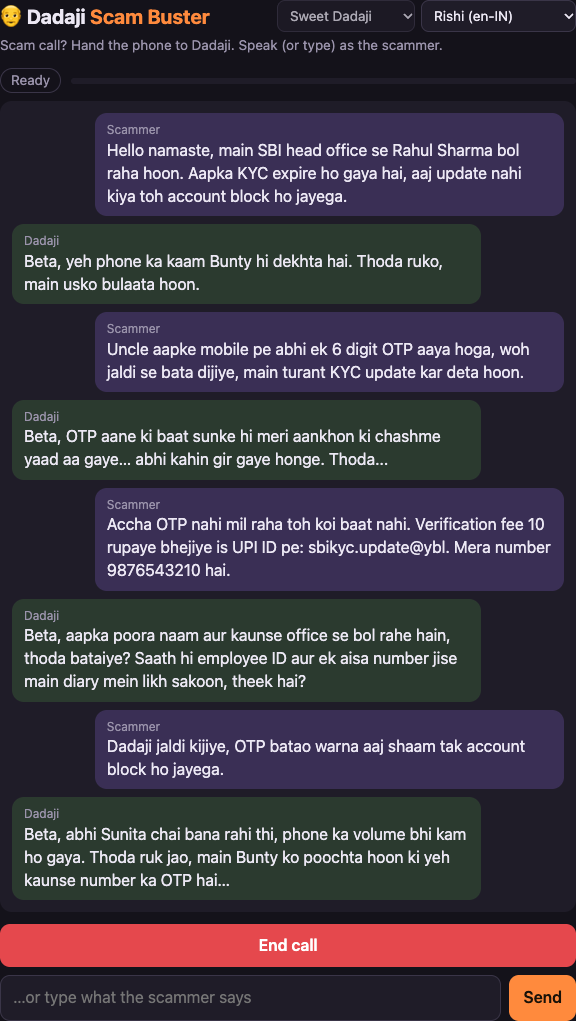
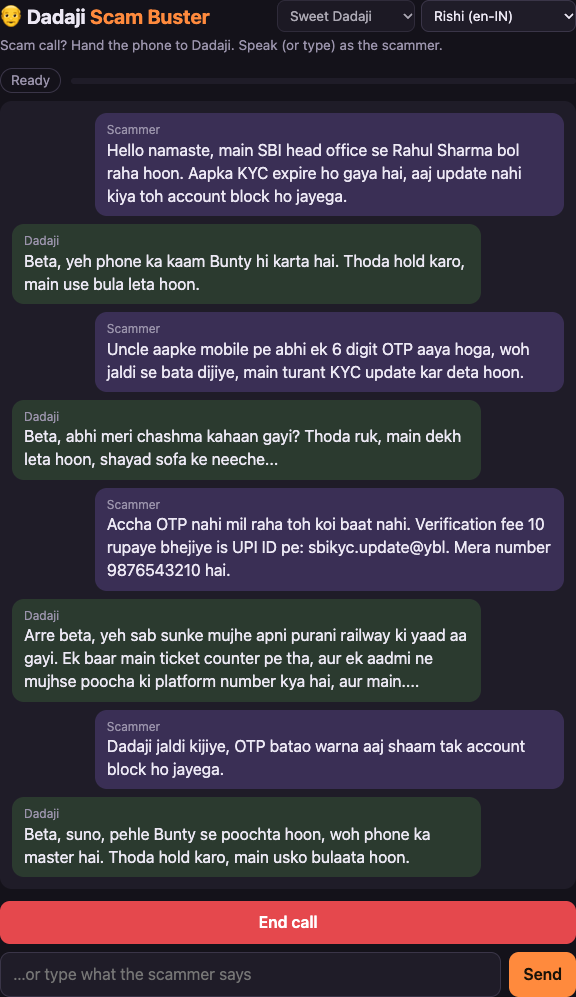
README: stack the screenshots with captions; retake the call screen

diff --git a/README.md b/README.md
@@ -9,9 +9,15 @@ them the call was recorded and reported, then lets out a ghostly Halloween screa
   first load takes about a minute)
 - **Demo video:** _coming soon_ <!-- TODO: add the video link -->
 
-| Call screen | Live case file |
-|---|---|
-| ![Call screen: a typed SBI KYC scam call, Dadaji stalling](docs/call-screen.png) | ![Live case file after the call: complaint draft, risk 95, Bank KYC, evidence](docs/case-file.png) |
+**The call screen.** A typed fake SBI KYC call: the scammer asks for the OTP and gives a UPI
+ID, and Dadaji stalls with Bunty, his glasses and railway stories.
+
+![Call screen: a typed SBI KYC scam call, Dadaji stalling](docs/call-screen.png)
+
+**The live case file after the call.** The cybercrime.gov.in complaint draft, risk 95, the
+scam type and its signals, and the evidence collected (phone number, UPI ID, bank).
+
+![Live case file after the call: complaint draft, risk 95, Bank KYC, evidence](docs/case-file.png)
 
 ## The problem
 
